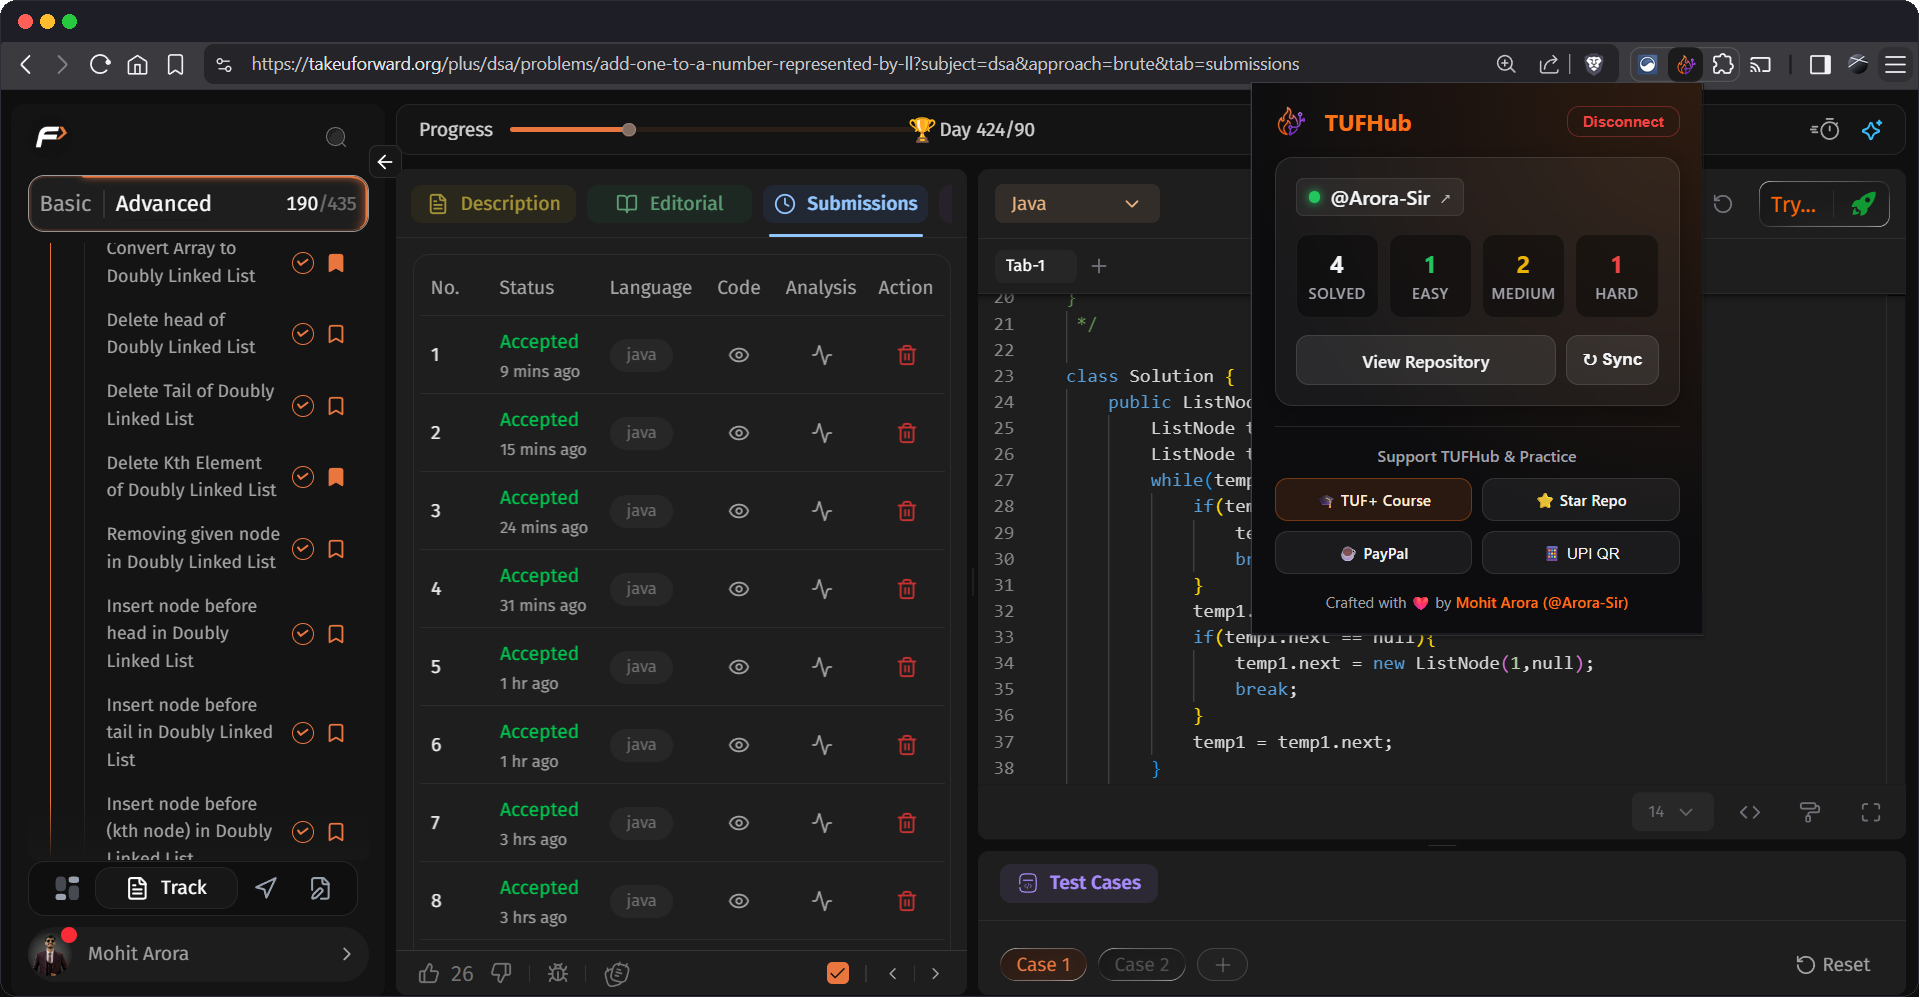
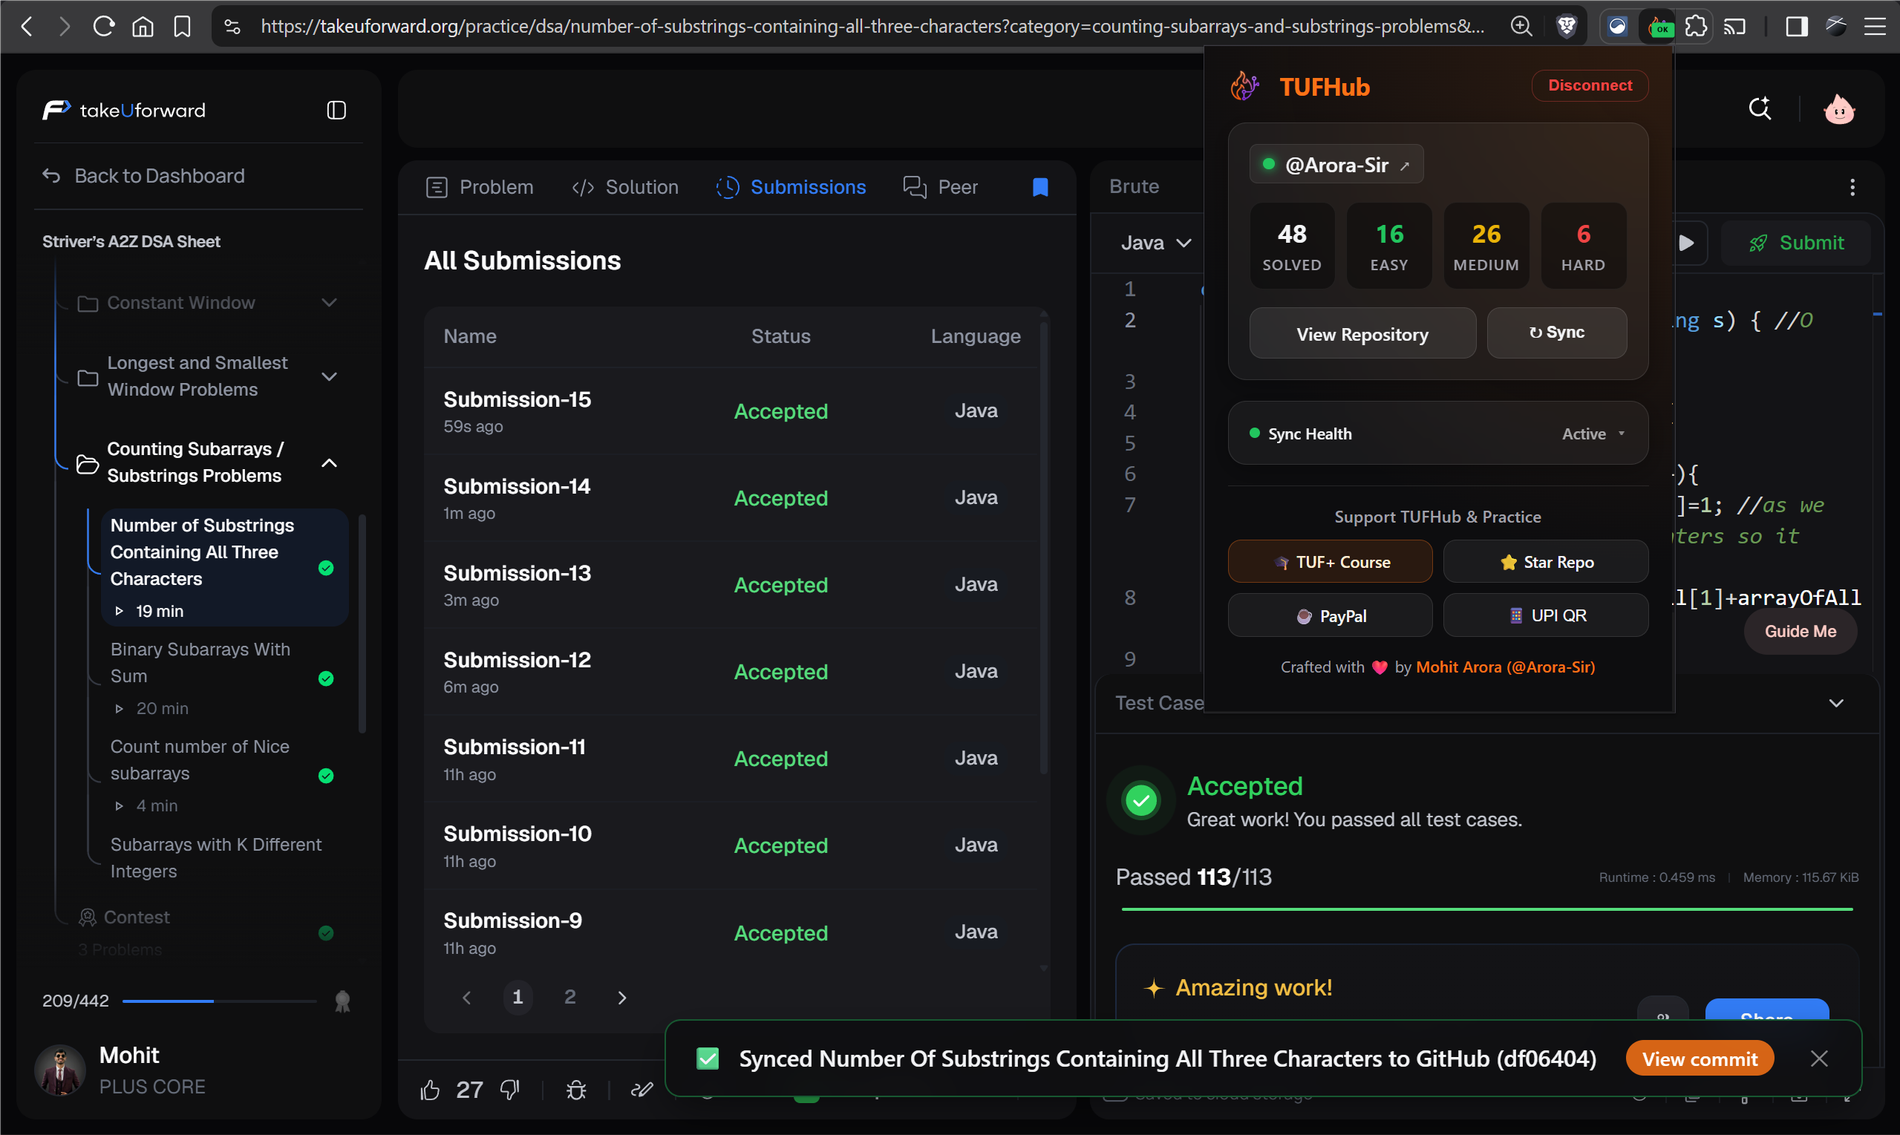
fix(readme): recapture stale popup dashboard screenshot after TUF site revamp
popup_dashboard.png showed the pre-revamp takeuforward.org UI. Recaptured
from the live site; bumped its README cache-busting query param.

diff --git a/README.md b/README.md
@@ -61,7 +61,7 @@ Click below to install TUFHub directly into Google Chrome with automatic backgro
 ## 📸 Screenshots & Showcase
 
 <p align="center">
-  <img src="src/assets/readme_screenshots/popup_dashboard.png?v=5" width="900" alt="TUFHub Extension Popup Dashboard" />
+  <img src="src/assets/readme_screenshots/popup_dashboard.png?v=6" width="900" alt="TUFHub Extension Popup Dashboard" />
 </p>
 
 ### 📁 Master Solutions Repository Index
